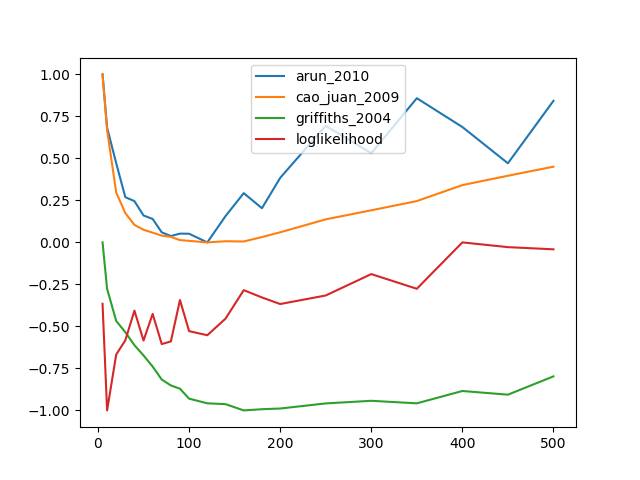
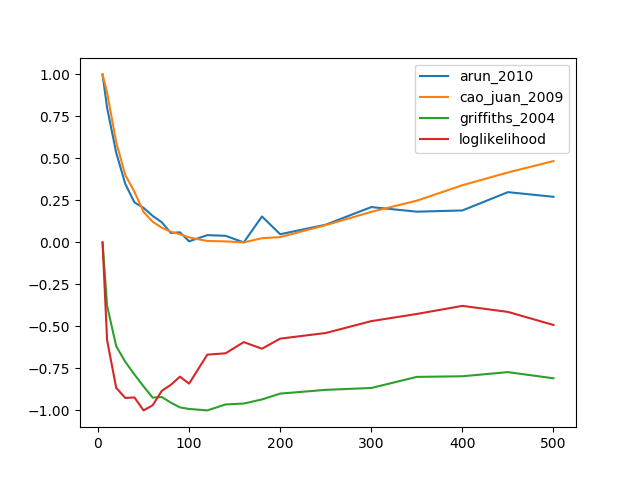
new model eval with updated tokens

diff --git a/tm_eval.py b/tm_eval.py
@@ -1,13 +1,4 @@
 # -*- coding: utf-8 -*-
-"""
-Topic Modeling for 18th German Bundestag debates. Model evaluation and selection.
-
-Best model parameters:
-- k = 80 topics
-- alpha = 50/k = 0.625
-- eta = 0.5
-- 2000 iterations
-"""
 
 from __future__ import division
 import logging
@@ -37,7 +28,8 @@ print('loaded DTM with %d documents, %d vocab size, %d tokens' % (len(doc_labels
 
 print('evaluating topic models...')
 eta = float(sys.argv[1]) if len(sys.argv) >= 2 else 0.01  # lda default: 0.01
-n_iter = int(sys.argv[2]) if len(sys.argv) >= 3 else 2000  # lda default: 2000
+alpha_mod = float(sys.argv[2]) if len(sys.argv) >= 3 else 1.0
+n_iter = int(sys.argv[3]) if len(sys.argv) >= 4 else 2000  # lda default: 2000
 constant_params = dict(n_iter=n_iter,
 #                       random_state=1,
                        eta=eta)
@@ -45,7 +37,7 @@ print('constant parameters:')
 pprint(constant_params)
 varying_num_topics = [5, 10] + list(range(20, 100, 10)) + list(range(100, 200, 20)) + list(range(200, 501, 50))
 #varying_num_topics = [120]
-varying_alpha = [50/k for k in varying_num_topics]
+varying_alpha = [alpha_mod/k for k in varying_num_topics]
 varying_params = [dict(n_topics=k, alpha=a) for k, a in zip(varying_num_topics, varying_alpha)]
 print('varying parameters:')
 pprint(varying_params)

diff --git a/generate_tokens.py b/generate_tokens.py
@@ -79,7 +79,7 @@ uncommon_special_chars = set(sum([[c for c in cs] for cs in uncommon_special_cha
 
 print('detected the following uncommon special characters:')
 for c in uncommon_special_chars:
-    print('%04x -> %s' % (ord(c), c))
+    print('%04x' % ord(c))
 
 
 print('running preprocessing pipeline...')
